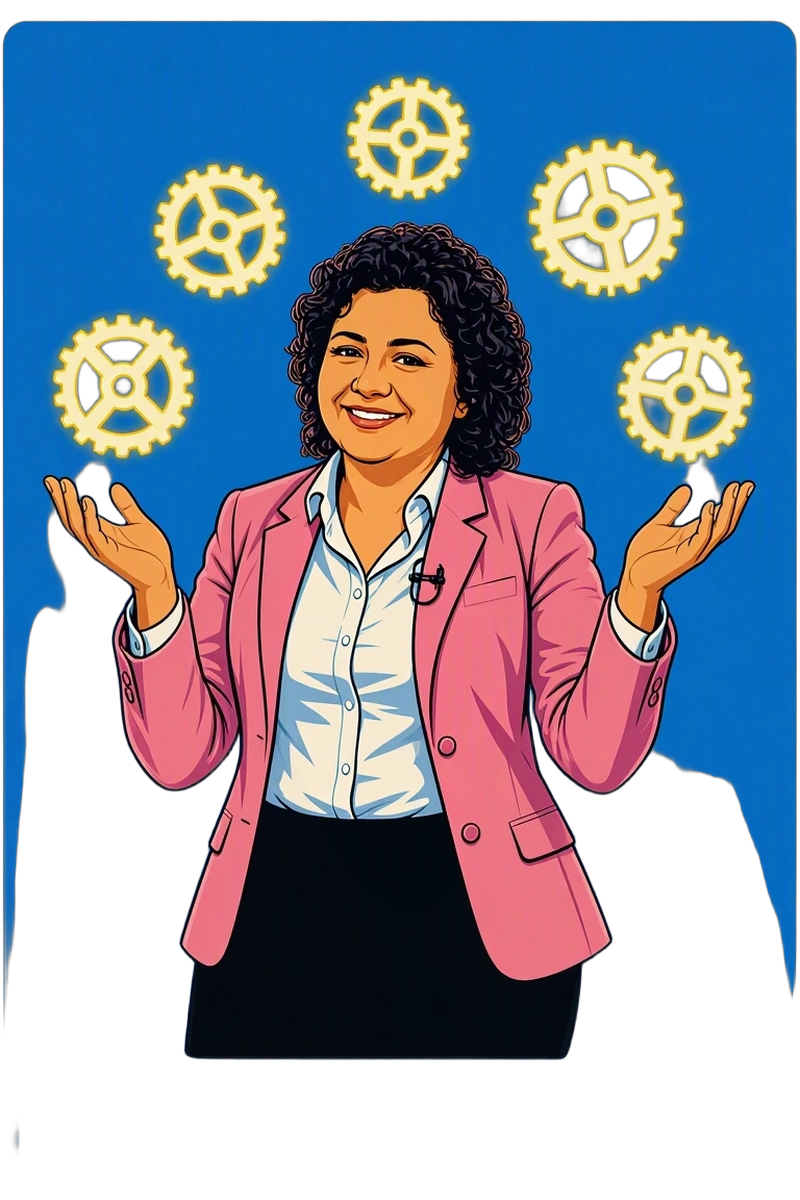
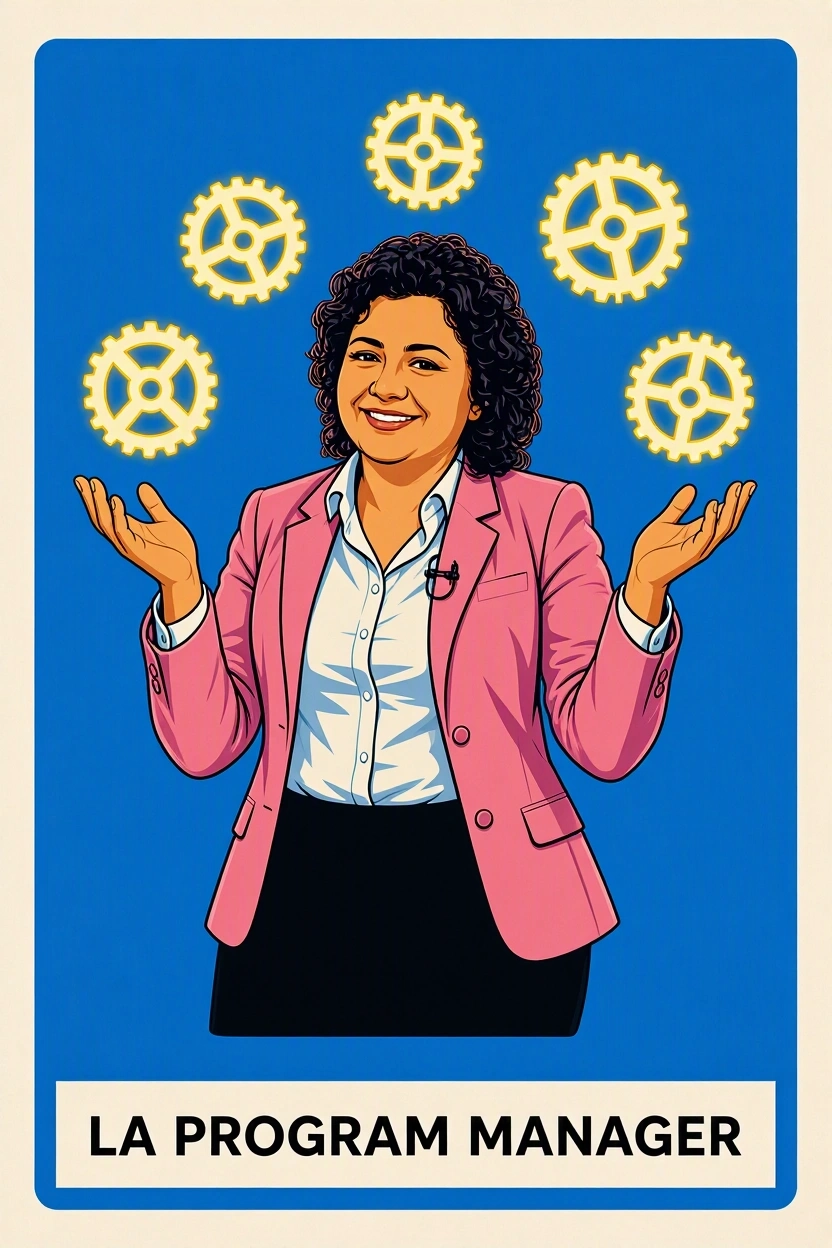
update routes

diff --git a/src/script.js b/src/script.js
@@ -8,7 +8,7 @@ const misPalabras = [
     { nombre: "El ChatBot", imagen: null },
     { nombre: "Blue", imagen: null },
     { nombre: "El ProductOwner", imagen: "productowner.png" },
-    { nombre: "El ScrumMaster", imagen: "scrum_master.webp" },
+    { nombre: "El ScrumMaster", imagen: "scrum_master.png" },
     { nombre: "El Andromeda", imagen: "andromeda.png" },
     { nombre: "La Review", imagen: "review.png" },
     { nombre: "La Daily", imagen: "daily.png" },
@@ -19,7 +19,7 @@ const misPalabras = [
     { nombre: "La Instalación", imagen: "instalacion.png" },
     { nombre: "El Despliegue", imagen: "despliegue.png" },
     { nombre: "Producción", imagen: "produccion.png" },
-    { nombre: "La Program Manager", imagen: "program_manager.webp" },
+    { nombre: "La Program Manager", imagen: "program_manager.png" },
     { nombre: "El App Owner", imagen: "appowner.png" },
     { nombre: "El Release Manager", imagen: "releasemanager.png" },
     { nombre: "El Avatar", imagen: null },
